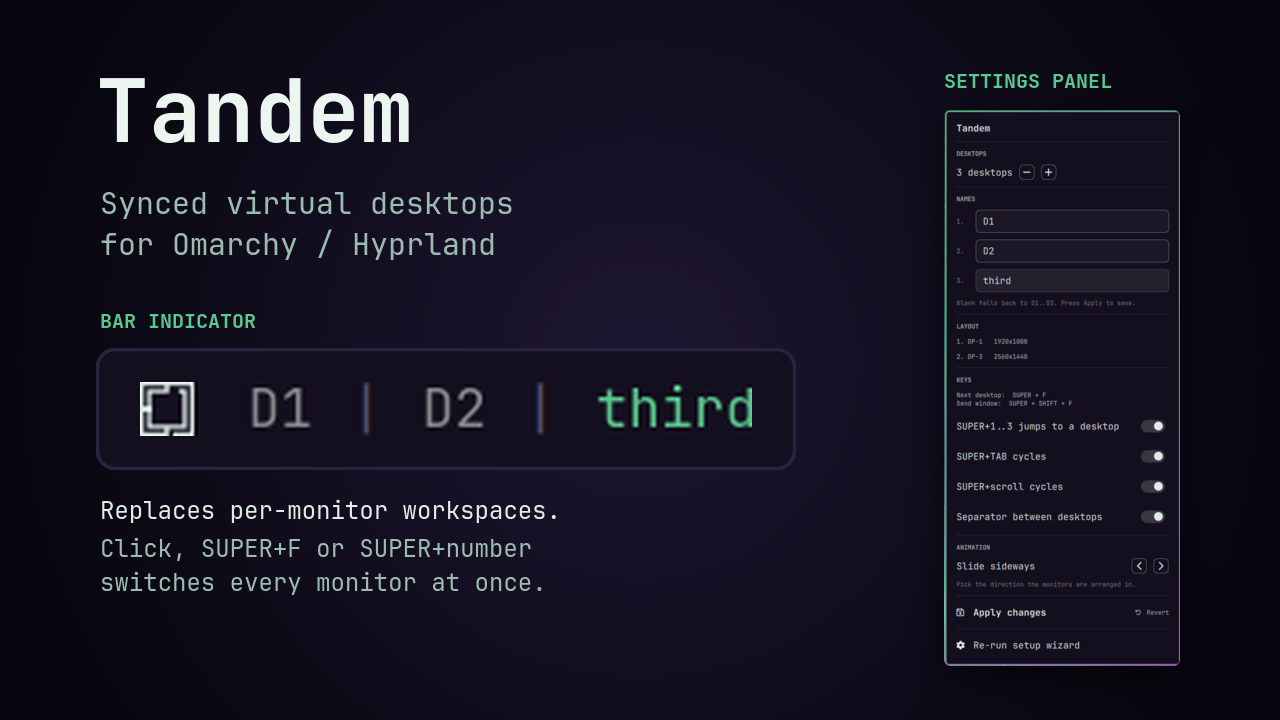
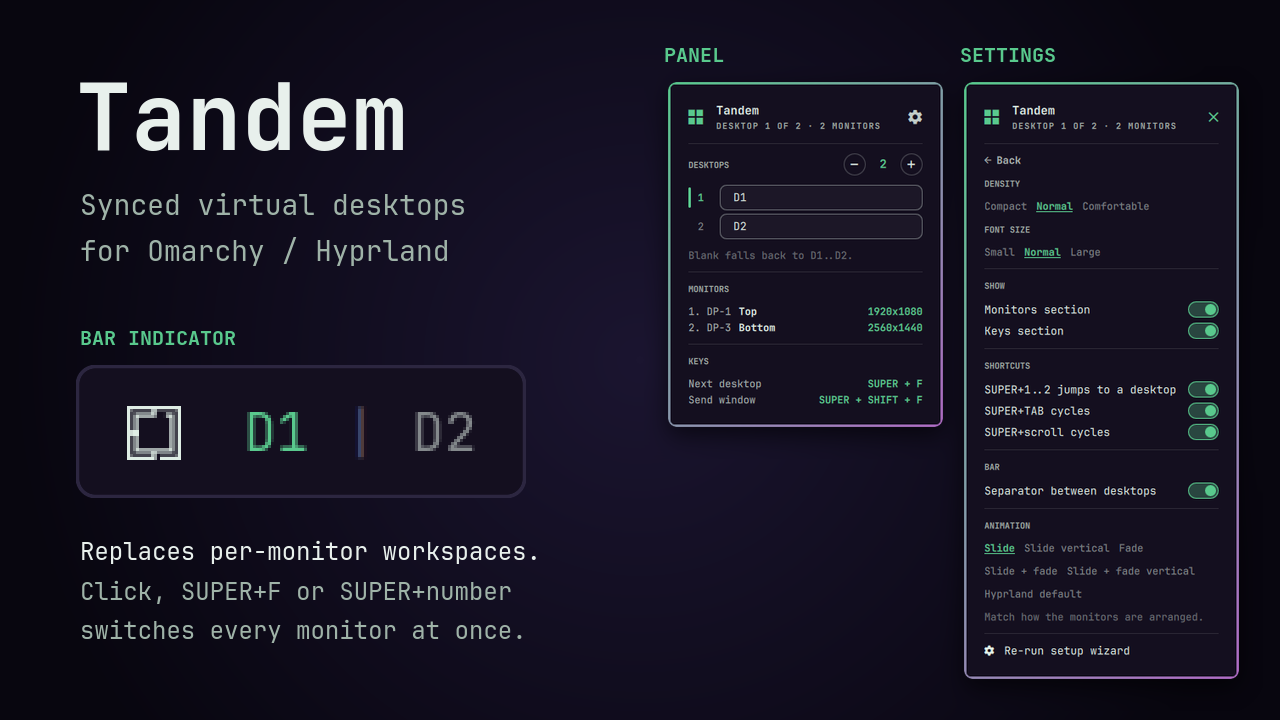
Retake the panel screenshots and rebuild the preview image
Show the main view and the settings view side by side in the README and
in the marketplace preview, with a fresh bar indicator capture.

diff --git a/README.md b/README.md
@@ -66,7 +66,10 @@ animation, writes them to `shell.json`, and regenerates the Hyprland config.
 One key answer gives both binds: `F` becomes `SUPER + F` to switch and
 `SUPER + SHIFT + F` to carry a window.
 
-![Settings panel](assets/settings-panel.png)
+<p>
+  <img src="assets/settings-panel.png" alt="The Tandem panel: desktop count, a name field per desktop with the current one marked in the accent colour, the monitors with their positions, and the keys" width="324">
+  <img src="assets/settings-view.png" alt="The panel's settings view: density, font size, switches for the monitors and keys sections, the key options, the separator, the animation and the setup wizard" width="324">
+</p>
 
 The **settings panel** (grid icon, right of the bar) covers everything the
 wizard does except the monitor order, which it lists read-only. Its main view
